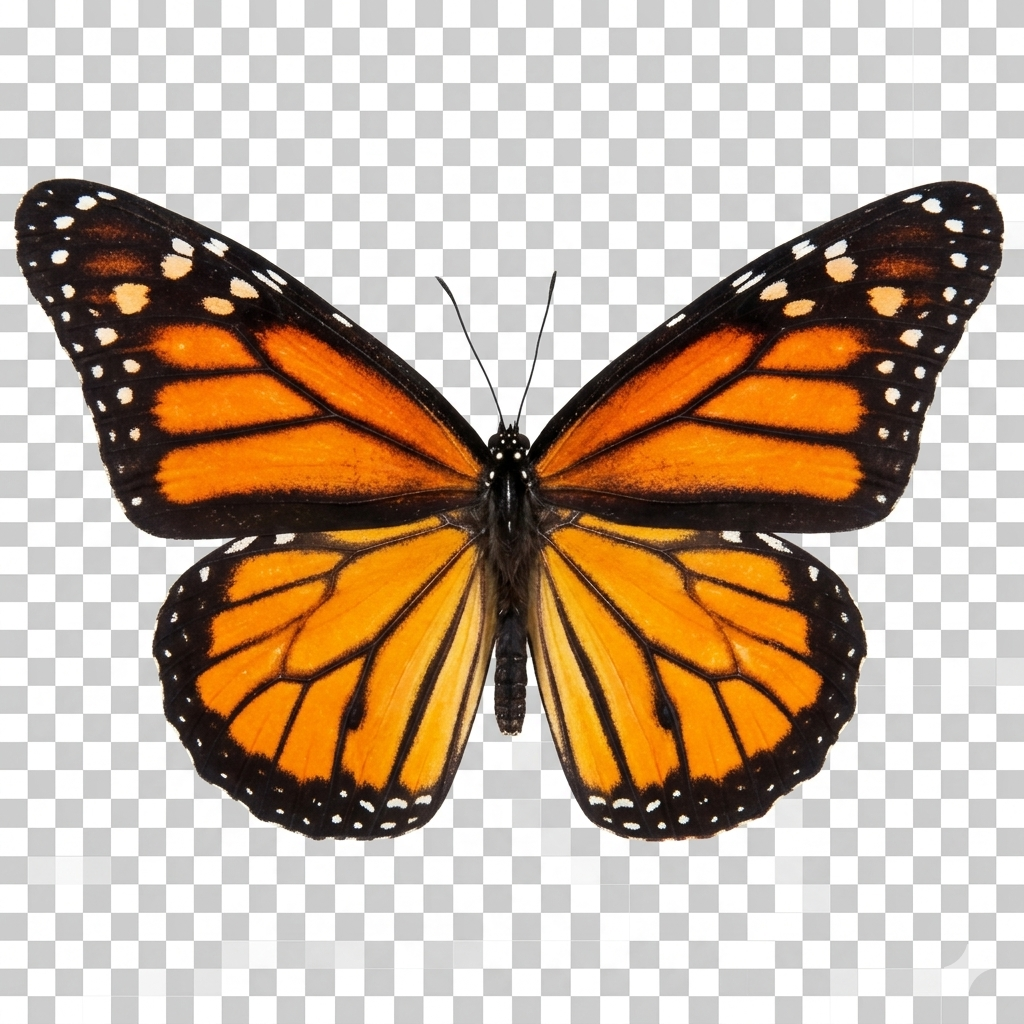
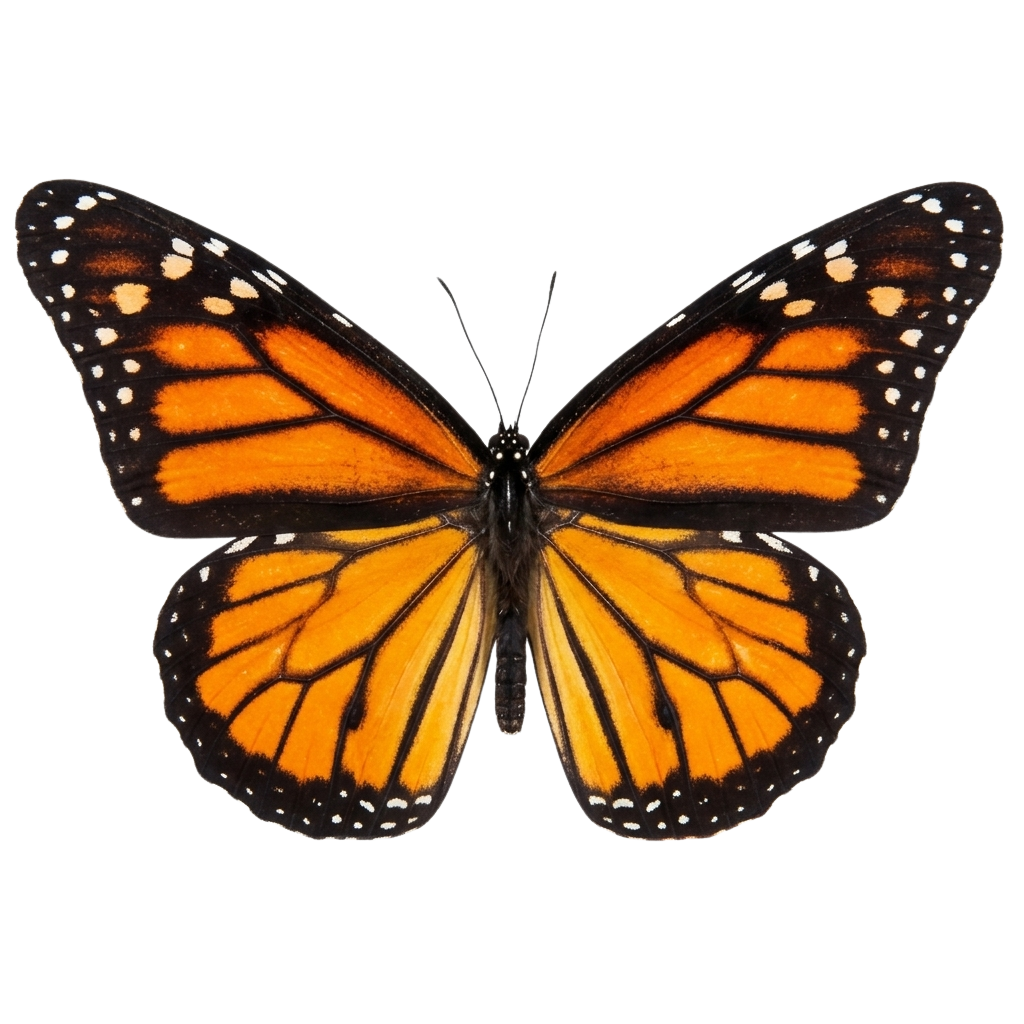
Five-stage journey wave with caterpillar and butterfly artwork

diff --git a/platform.html b/platform.html
@@ -1305,8 +1305,9 @@
     text-align: center;
   }
   .journey-wave-title {
-    font-size: clamp(36px, 5vw, 64px) !important;
-    margin-bottom: 12px !important;
+    font-size: clamp(28px, 4vw, 48px) !important;
+    line-height: 1.05 !important;
+    margin-bottom: 8px !important;
   }
   .journey-wave-title em {
     font-style: italic;
@@ -1314,14 +1315,15 @@
     font-weight: 300;
   }
   .journey-wave-sub {
-    margin-bottom: 20px !important;
+    margin-bottom: 12px !important;
     font-style: italic;
     color: var(--text-soft);
+    font-size: clamp(14px, 1.3vw, 17px) !important;
   }
   .journey-wave-wrap {
     width: 100%;
-    margin: 8px auto 16px;
-    padding: 8px 8px 16px;
+    margin: 4px auto 12px;
+    padding: 4px 4px 8px;
     background: var(--bg-elev-1);
     border: 1px solid var(--line);
     border-radius: 8px;
@@ -1330,6 +1332,7 @@
     display: block;
     width: 100%;
     max-width: 1180px;
+    max-height: 60vh;  /* prevent the wave from eating the whole screen */
     margin: 0 auto;
     height: auto;
   }
@@ -1373,16 +1376,16 @@
     height: 1px;
     background: var(--accent);
     border: none;
-    margin: 8px auto 16px;
+    margin: 4px auto 10px;
   }
   .journey-wave-footer {
     font-family: var(--serif);
-    font-size: clamp(15px, 1.5vw, 18px);
+    font-size: clamp(13px, 1.2vw, 16px);
     color: var(--text-soft);
     font-style: italic;
     max-width: 900px;
     margin: 0 auto;
-    line-height: 1.5;
+    line-height: 1.45;
   }
 
   @media (max-width: 880px) {